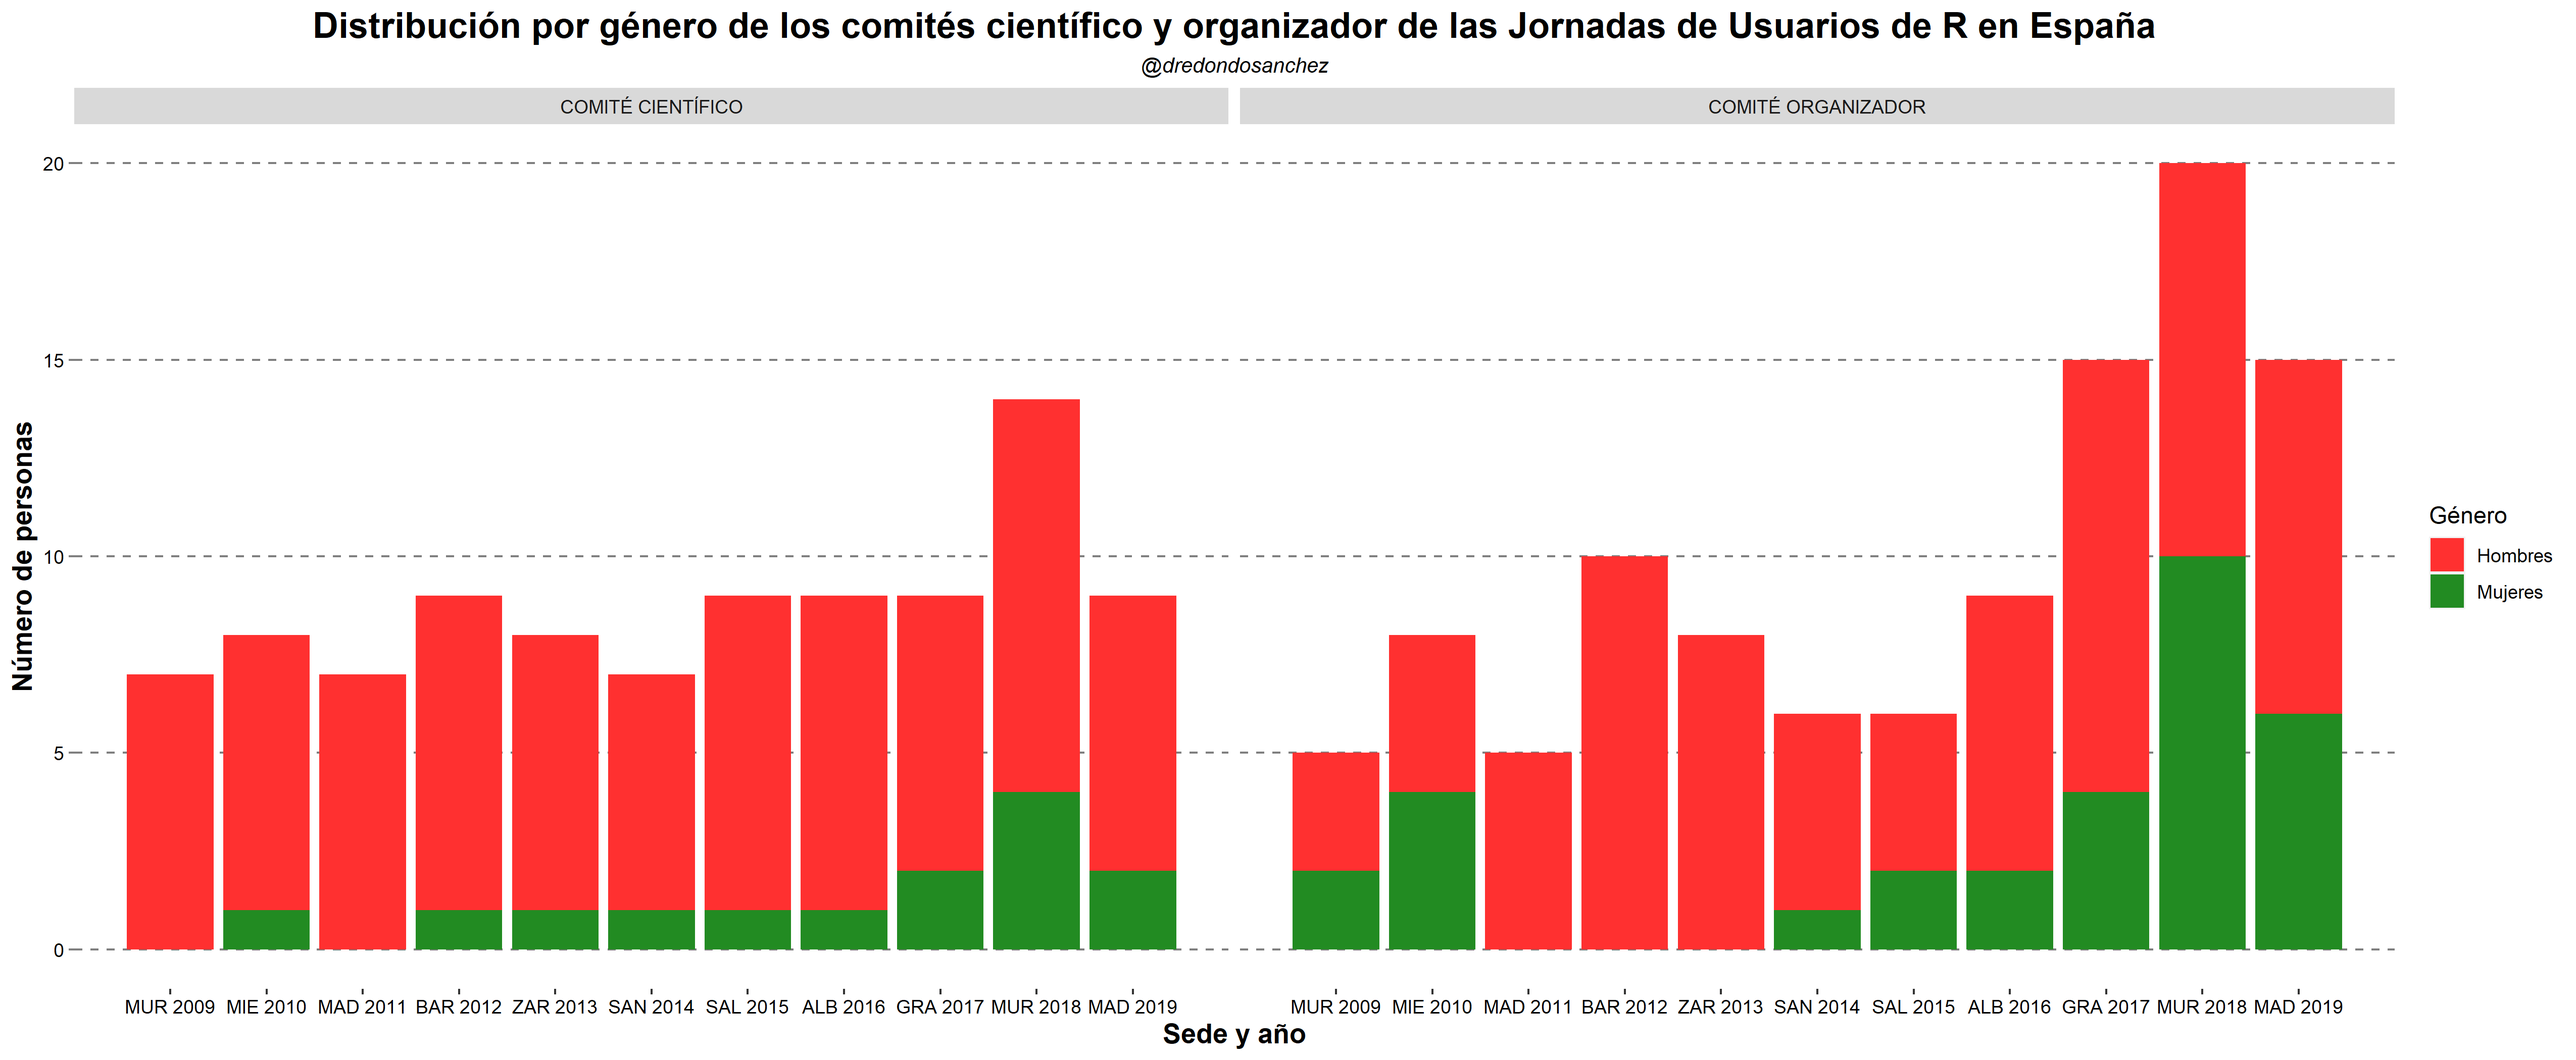
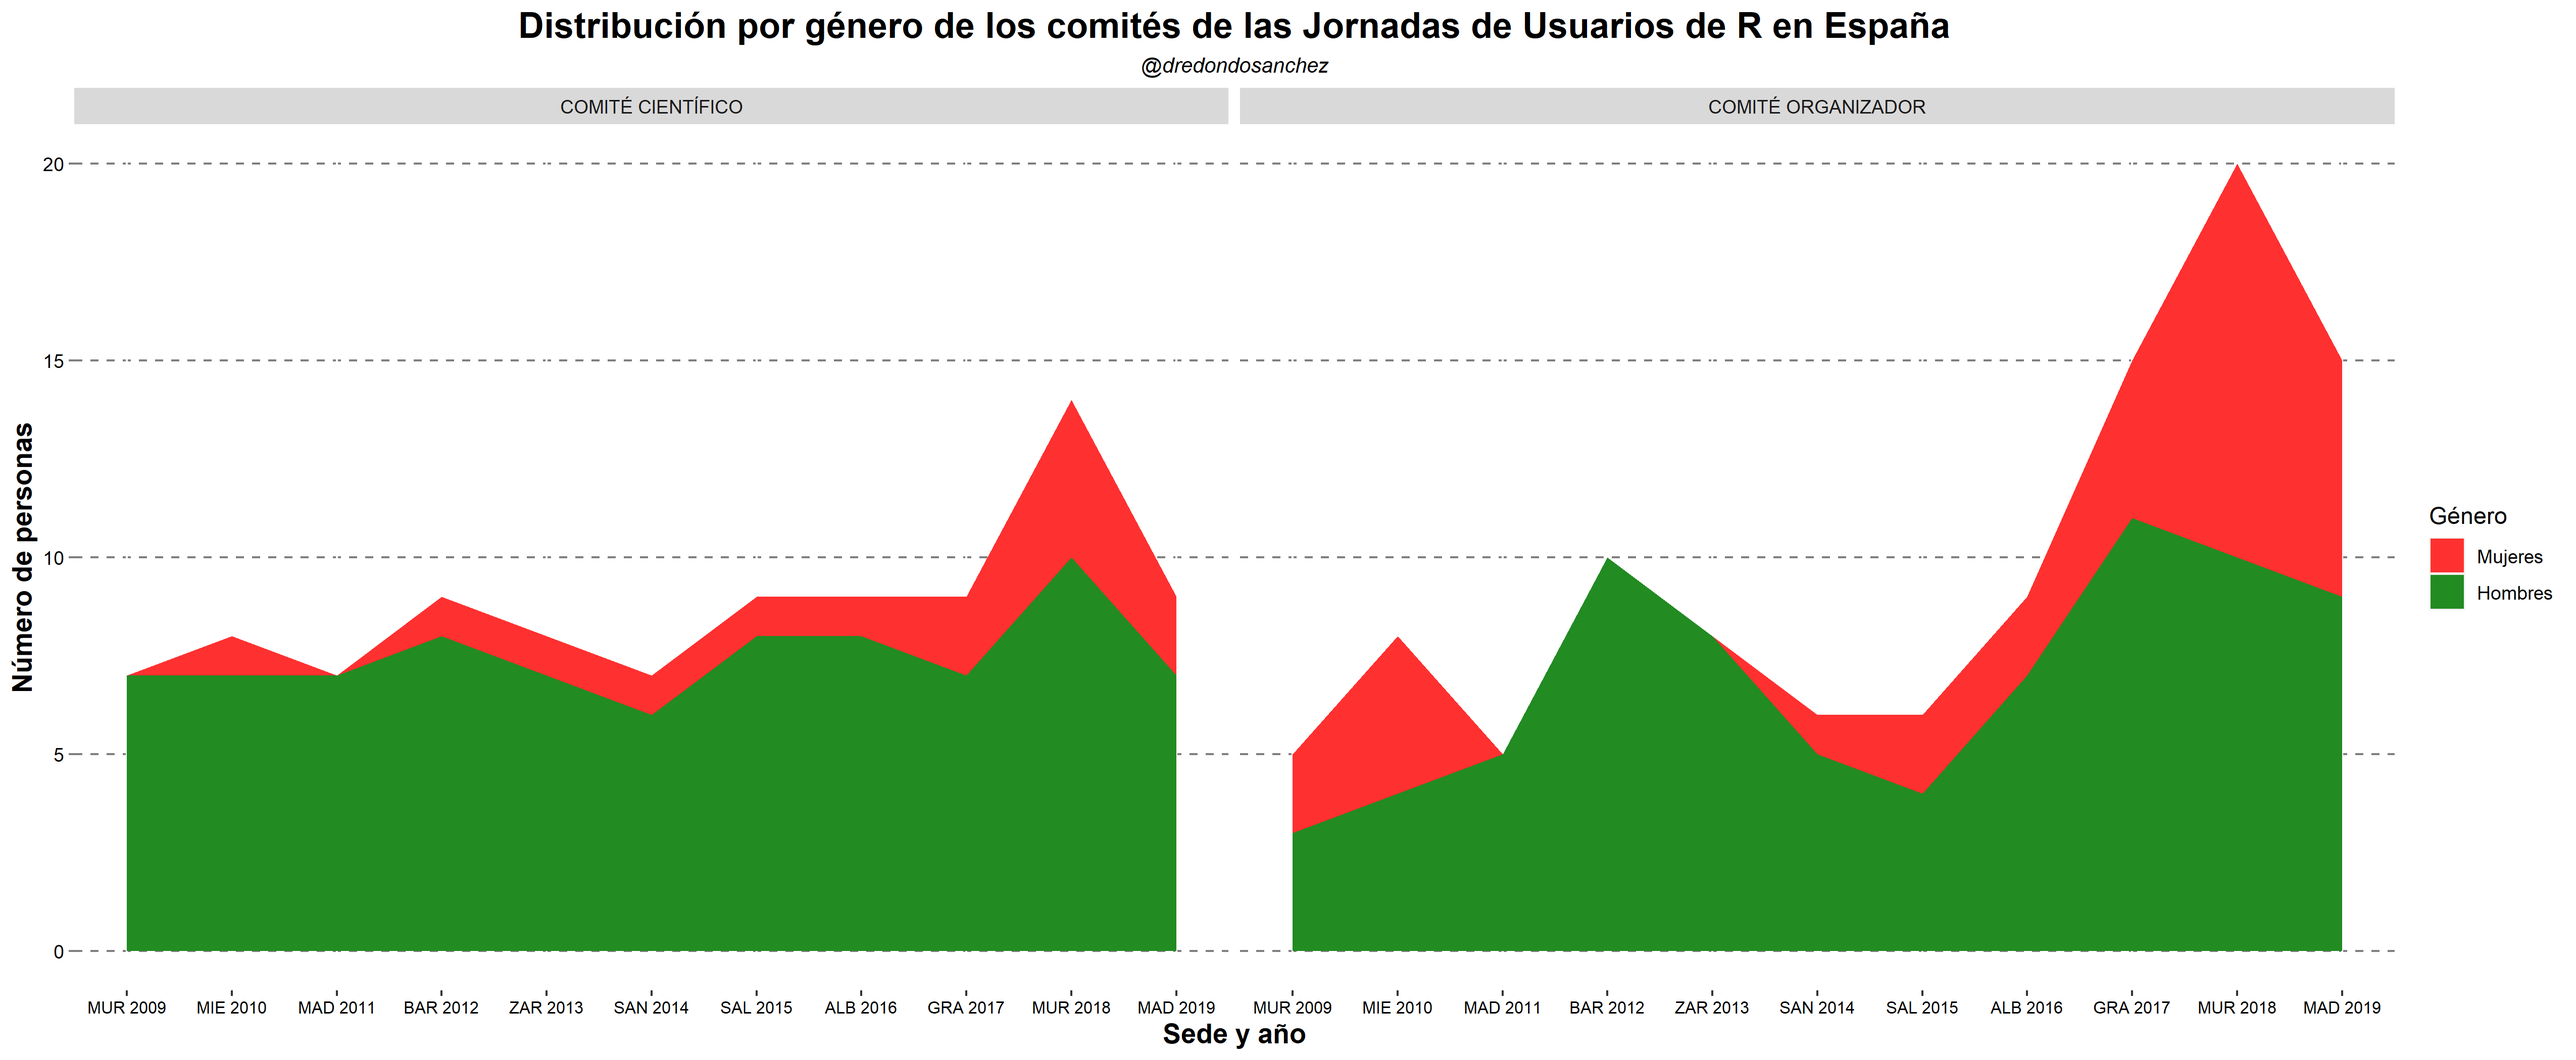
dia9

diff --git a/README.md b/README.md
@@ -1,6 +1,6 @@
 # #30díasdegráficos
 
-#30díasdegráficos es una iniciativa de [R4ds en español](https://github.com/cienciadedatos/datos-de-miercoles/blob/master/30-dias-de-graficos-2020.md) para conmemorar el nacimiento de Florence Nightingale, en el que se propone crear un gráfico distinto al día.
+#30díasdegráficos con R es una iniciativa de [R4ds en español](https://github.com/cienciadedatos/datos-de-miercoles/blob/master/30-dias-de-graficos-2020.md) para conmemorar el nacimiento de Florence Nightingale, referente femenina de la visualización de datos. En el desafío, se propone crear un gráfico distinto al día y compartir el código que lo genera.
 
 ### Día 1. Gráfico de barras
 
@@ -50,9 +50,9 @@ Imitación de la portada del disco "[Super 8](https://m.eldiario.es/fotos/Portad
 
 ![](graficos/8.png)
 
-### Día 9. Barras apiladas
+### Día 9. Áreas apiladas
 
-Distribución por género de los comités científico y organizador de las Jornadas de Usuarios de R en España. [Código](scripts/9_barras_apiladas.R).
+Distribución por género de los comités de las Jornadas de Usuarios de R en España. [Código](scripts/9_areas_apiladas.R).
 
 ![](graficos/9.png)
 
